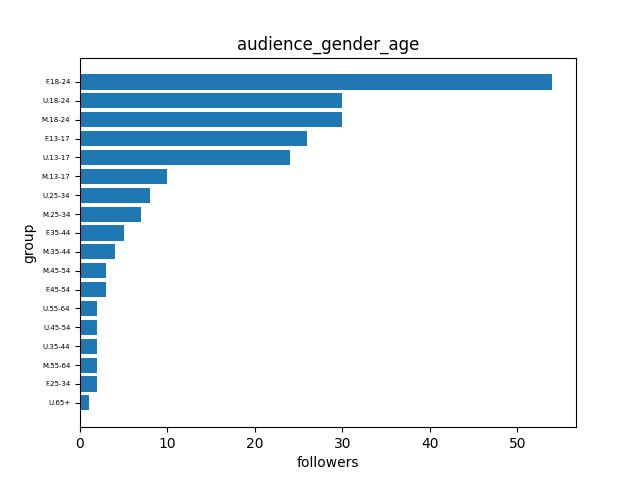
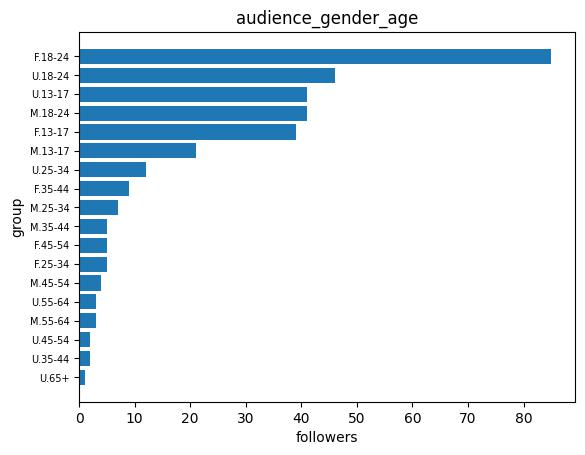
add post engagement rate

Changed region(s): [[0.0, 0.0308, 0.9538, 0.9846], [0.9538, 0.8615, 0.9846, 0.8923], [0.9538, 0.0615, 0.9846, 0.0923]]

diff --git a/templates/eng.html b/templates/eng.html
@@ -6,10 +6,7 @@
     <title>@studentsforhans dashboard</title>
     <body>
         <center>
-        {% for m in metrics %}
-            <img src="{{ 'static/' + m + '.jpg' }}">
-        {% endfor %}
-        <a href="{{ url_for('eng') }}">engagement rate by post</a>
+        <img src="static/eng_rate.jpg">
         <script src="https://code.jquery.com/jquery-3.3.1.slim.min.js" integrity="sha384-q8i/X+965DzO0rT7abK41JStQIAqVgRVzpbzo5smXKp4YfRvH+8abtTE1Pi6jizo" crossorigin="anonymous"></script>
         <script src="https://cdnjs.cloudflare.com/ajax/libs/popper.js/1.14.7/umd/popper.min.js" integrity="sha384-UO2eT0CpHqdSJQ6hJty5KVphtPhzWj9WO1clHTMGa3JDZwrnQq4sF86dIHNDz0W1" crossorigin="anonymous"></script>
         <script src="https://stackpath.bootstrapcdn.com/bootstrap/4.3.1/js/bootstrap.min.js" integrity="sha384-JjSmVgyd0p3pXB1rRibZUAYoIIy6OrQ6VrjIEaFf/nJGzIxFDsf4x0xIM+B07jRM" crossorigin="anonymous"></script>

diff --git a/fetch.py b/fetch.py
@@ -82,11 +82,37 @@ def make_plots():
         for x in ks:
             demog[x.replace(", Maryland", "")] = demog.pop(x)
         demog = dict(sorted(demog.items(), key=lambda x: x[1]))
-        plt.rc('ytick', labelsize=5) 
+        plt.rc('ytick', labelsize=7) 
         plt.barh(list(demog.keys()), demog.values())
         plt.title(met)
         plt.xlabel("followers")
         plt.ylabel("group")
-        plt.savefig("static/" + met + ".jpg")
+        plt.savefig("static/" + met + ".jpg",bbox_inches='tight')
         plt.close()
     return metrics + metrics2
+
+def post_engagement():
+    params = define_params()
+    url = params['endpoint_base'] + params['instagram_account_id'] + '/media'
+    endpointParams = dict()
+    endpointParams['fields'] = ['caption']
+    endpointParams['access_token'] = params['access_token']
+    data = requests.get(url, endpointParams )
+    media = json.loads(data.content)
+    rates = []
+    for i in media['data']:
+        url = params['endpoint_base'] + i['id'] + '/insights'
+        endpointParams = dict()
+        endpointParams['metric'] = 'reach,engagement'
+        endpointParams['access_token'] = params['access_token']
+        data = requests.get(url, endpointParams)
+        p = json.loads(data.content)
+        if 'data' in p.keys() and p['data'][0]['values'][0]['value'] > 0:
+            rates.append([ p['data'][1]['values'][0]['value']/p['data'][0]['values'][0]['value'], i['caption'][:15]])
+    df = pd.DataFrame(rates[::-1],columns=["eng_rate", "caption"])
+    plt.plot(df['eng_rate'])
+    plt.xticks(list(range(len(df))),df['caption'],rotation=90)
+    plt.xlabel('caption')
+    plt.ylabel('engagement rate (likes+comments/# unique views)')
+    plt.savefig("static/" + 'eng_rate' + ".jpg", bbox_inches='tight')
+    plt.close()

diff --git a/app.py b/app.py
@@ -9,3 +9,8 @@ app = Flask(__name__)
 def home():
     mets = fetch.make_plots()
     return render_template("fig.html", metrics=mets)
+
+@app.route("/post_engagement")
+def eng():
+    fetch.post_engagement()
+    return render_template("eng.html")
